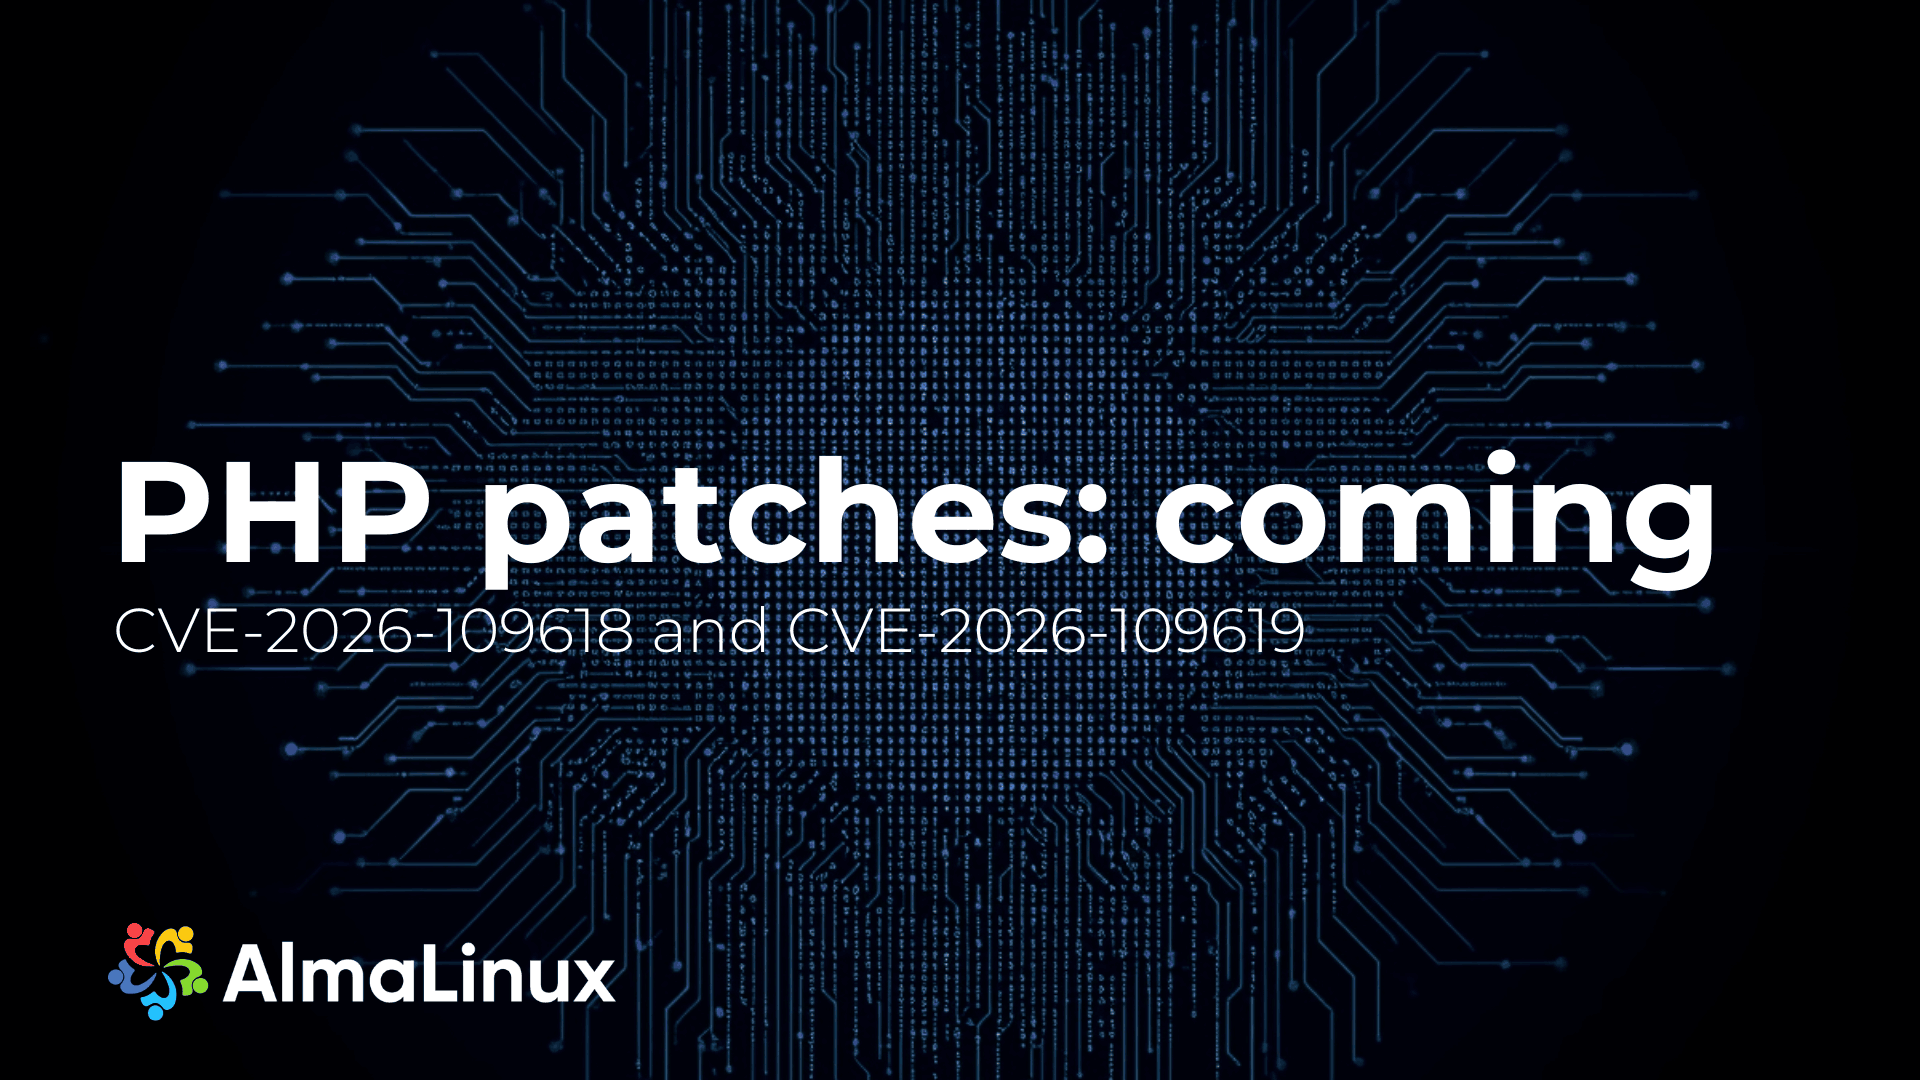
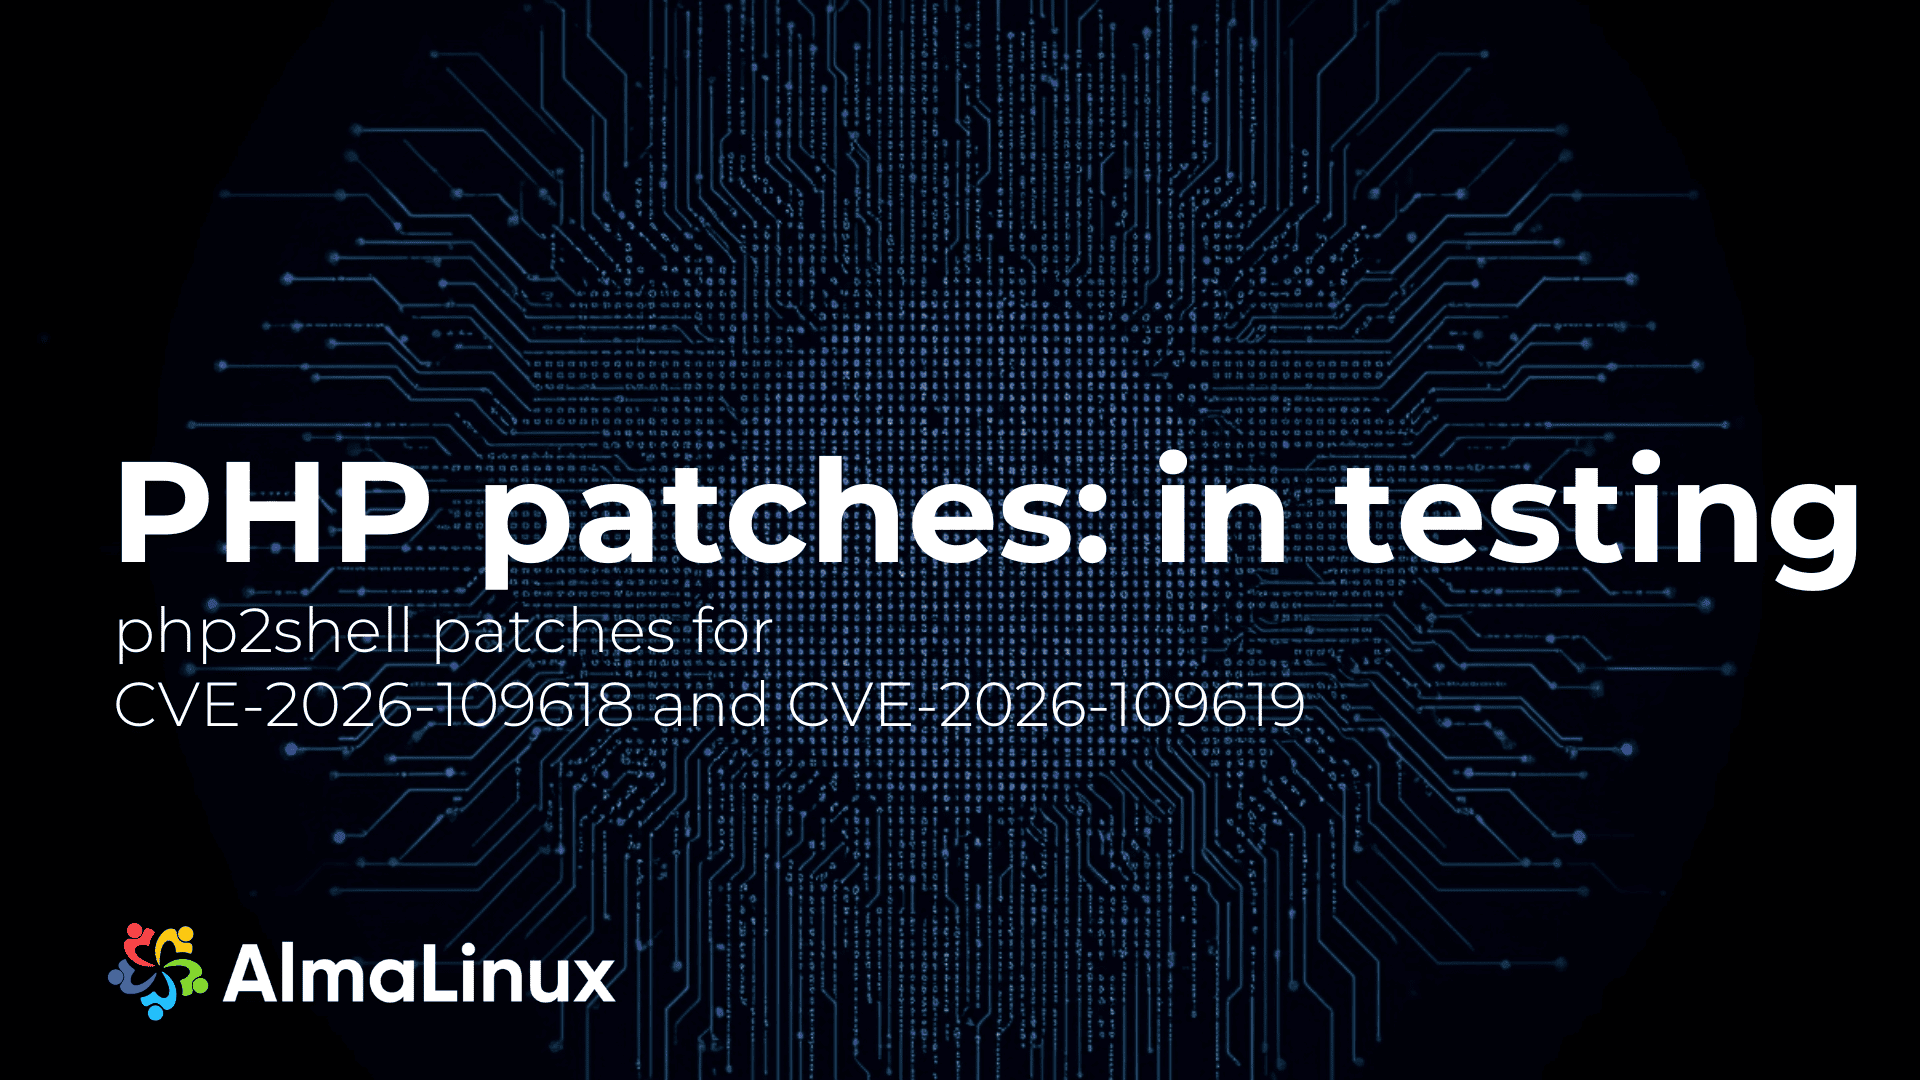
Update php2shell post: patched PHP packages available in testing
Adds a call to action at the top, package versions for every PHP
stream (including retired streams and Red Hat's php:7.4 update on
AlmaLinux 8), and testing instructions. Swaps in the "in testing"
header image, compressed to stay under the 500 KB blog-image limit.
Drafted with AI assistance.

Changed region(s): [[0.0625, 0.55, 0.6875, 0.6722], [0.5938, 0.3972, 0.9688, 0.55], [0.0625, 0.8861, 0.0938, 0.9167]]

diff --git a/content/blog/2026-10-21-php2shell-cve-2026-109618-cve-2026-109619.md b/content/blog/2026-10-21-php2shell-cve-2026-109618-cve-2026-109619.md
@@ -1,5 +1,5 @@
 ---
-title: "php2shell (CVE-2026-109618, CVE-2026-109619): Patches in progress"
+title: "php2shell (CVE-2026-109618, CVE-2026-109619): Patched PHP packages available in testing"
 type: blog
 author:
   name: "Jonathan Wright"
@@ -9,13 +9,29 @@ date: "2026-10-21"
 images:
   - /blog-images/2026/2026-10-21-php2shell.png
 post:
-  title: "php2shell is a pair of critical PHP flaws that can let an unauthenticated attacker run code on a web server with nothing more than crafted HTTP requests. We are backporting the fixes now and expect patched PHP packages for AlmaLinux 8, 9, and 10 in the testing repository later today."
+  title: "php2shell is a pair of critical PHP flaws that can let an unauthenticated attacker run code on a web server with nothing more than crafted HTTP requests. Patched PHP packages for AlmaLinux 8, 9, and 10 are in the testing repository now. Help us verify them before they go to production."
   image: /blog-images/2026/2026-10-21-php2shell.png
+---
+
+## Update: Patched PHP packages are now in testing
+
+**2026-10-21 17:50 UTC:** Patched packages for every PHP stream AlmaLinux ships are now in the **testing** repository. Please install them and help us verify them before we release them to production:
+
+```bash
+sudo dnf install -y almalinux-release-testing
+sudo dnf upgrade 'php*' --enablerepo=almalinux-testing
+sudo systemctl restart php-fpm
+```
+
+If you use mod_php on AlmaLinux 8, restart Apache with `sudo systemctl restart httpd` instead. If you are on the `php:7.4` stream on AlmaLinux 8, the fix is a rebuild of Red Hat's update and is already in production, so `sudo dnf upgrade 'php*'` is all you need.
+
+See [patched package versions](#patched-package-versions) for the exact builds, and [help us test](#help-us-test) for how to confirm the update and report problems.
+
 ---
 
 Two critical vulnerabilities in PHP, nicknamed **php2shell**, were [disclosed by PHP today](https://www.php.net/archive/2026.php#2026-10-21-5): [CVE-2026-109618](https://github.com/php/php-src/security/advisories/GHSA-w8hw-w9fx-j79w) and [CVE-2026-109619](https://github.com/php/php-src/security/advisories/GHSA-6wmf-4rv5-p3rp). Either one can let an unauthenticated attacker run code on a web server, as the account PHP runs under, by sending it crafted HTTP requests. PHP rates both **9.2 (Critical)** on CVSS v4.0. **AlmaLinux 8, 9, and 10 all ship affected PHP versions.**
 
-We are aware of these vulnerabilities, and our core team is actively backporting the fixes and building patched packages. We expect to release them to the testing repository later today, and we will update this post with package versions and testing instructions as soon as they are available. Until then, the [mitigations below](#mitigations-until-you-can-update) reduce your exposure.
+Patched packages for every PHP stream AlmaLinux ships are available in the testing repository today, and we would like your help verifying them before we release them to production. If you can't update right away, the [mitigations below](#mitigations-until-you-can-update) reduce your exposure.
 
 More information about the vulnerabilities:
 
@@ -26,7 +42,7 @@ More information about the vulnerabilities:
 
 ## Summary
 
-php2shell is the nickname the pair has picked up. PHP's advisory refers to them by CVE number. PHP shipped the fixes on 2026-10-21 in PHP 8.5.12, 8.4.27, 8.3.36, and 8.2.35. The two flaws are separate bugs, but PHP's advisories each tell readers to follow the other's advice too, and the patched AlmaLinux packages will fix both.
+php2shell is the nickname the pair has picked up. PHP's advisory refers to them by CVE number. PHP shipped the fixes on 2026-10-21 in PHP 8.5.12, 8.4.27, 8.3.36, and 8.2.35. The two flaws are separate bugs, but PHP's advisories each tell readers to follow the other's advice too, and the patched AlmaLinux packages fix both.
 
 ### CVE-2026-109618: out-of-memory corruption
 
@@ -65,20 +81,13 @@ Our packages only update PHP installed from AlmaLinux's own repositories. If you
 
 ## Patching ahead of our upstream
 
-Security is a top priority at AlmaLinux. Unauthenticated remote code execution in PHP is something that needs to be handled with urgency, and PHP is urging every user to update immediately. At the time of writing, Red Hat has not published fixed PHP packages. Our core team is backporting the upstream fixes first to every PHP stream that is still supported under the [RHEL Application Streams life cycle](https://access.redhat.com/support/policy/updates/rhel-app-streams-life-cycle):
+Security is a top priority at AlmaLinux. Unauthenticated remote code execution in PHP is something that needs to be handled with urgency, and PHP is urging every user to update immediately. At the time of writing, Red Hat has released a fix only for the `php:7.4` stream on RHEL 8. Our core team has backported the upstream fixes to every other PHP stream AlmaLinux ships, including streams that are past the end of their [RHEL Application Streams life cycle](https://access.redhat.com/support/policy/updates/rhel-app-streams-life-cycle). The decision to ship ahead of a CentOS Stream / RHEL update was made by our technical steering committee, [ALESCo](https://almalinux.org/blog/2024-05-21-introducing-alesco/).
 
-- **AlmaLinux 8:** the `php:7.4` and `php:8.2` streams
-- **AlmaLinux 9:** the default PHP 8.0, and the `php:8.2` and `php:8.3` streams
-- **AlmaLinux 10:** the default PHP 8.3, and PHP 8.4 (`php8.4` packages)
-- **AlmaLinux Kitten 10:** the fix will ride along in the next regular PHP update, so no separate build is being made
-
-We will ship these ahead of a CentOS Stream / RHEL update. That decision was made by our technical steering committee, [ALESCo](https://almalinux.org/blog/2024-05-21-introducing-alesco/).
-
-We expect the patched packages to be in the **testing repository later today**. After the community has helped verify them, we will release them to the production repositories. This post will be updated at each step.
+These packages are available **in the testing repository today**. After the community has helped verify them, we will release them to the production repositories. This post will be updated when that happens. The one exception is the `php:7.4` stream on AlmaLinux 8: that fix is a rebuild of Red Hat's update, and it goes directly to the production repositories.
 
 ### Retired streams
 
-`php:7.2`, `php:7.3`, and `php:8.0` on AlmaLinux 8, and `php:8.1` on AlmaLinux 9, have reached the end of their [RHEL life cycle](https://access.redhat.com/support/policy/updates/rhel-app-streams-life-cycle), so they are not part of this first round of patches. We may also backport the fixes to these streams later, and will update this post if we do. Don't wait on that. If you are on one of them, the safest path is to move to a supported stream.
+`php:7.2`, `php:7.3`, and `php:8.0` on AlmaLinux 8, and `php:8.1` on AlmaLinux 9, have reached the end of their [RHEL life cycle](https://access.redhat.com/support/policy/updates/rhel-app-streams-life-cycle). Given the severity of these flaws, we have patched them too, but future fixes for retired streams are not guaranteed. If you are on one of them, plan to move to a supported stream.
 
 `php:7.2` is still the default stream on AlmaLinux 8, so if you installed PHP there without choosing a stream, that is what you have. Check which stream is enabled (marked `[e]`) with:
 
@@ -93,6 +102,54 @@ sudo dnf module reset php
 sudo dnf module enable php:8.2
 sudo dnf distro-sync 'php*'
 ```
+
+## Patched package versions
+
+Install the version listed for your release and stream, or higher.
+
+**AlmaLinux 8**
+
+- `php:7.2` stream: `php-7.2.24-1.module_el8.10.0+4315+7b734bf3.alma.1`
+- `php:7.3` stream: `php-7.3.20-1.module_el8.10.0+4316+90ea5fe5.alma.1`
+- `php:7.4` stream: `php-7.4.33-8.module_el8.10.0+4321+cf5fd4bb` (Red Hat's update, released directly to production)
+- `php:8.0` stream: `php-8.0.30-1.module_el8.10.0+4319+26f10322.alma.1`
+- `php:8.2` stream: `php-8.2.33-1.module_el8.10.0+4320+c30d6dbb.alma.1`
+
+**AlmaLinux 9**
+
+- Default (PHP 8.0): `php-8.0.30-8.el9_8.alma.1`
+- `php:8.1` stream: `php-8.1.32-1.module_el9.8.0+326+528679fc.alma.1`
+- `php:8.2` stream: `php-8.2.33-1.module_el9.8.0+327+37dfd4b4.alma.1`
+- `php:8.3` stream: `php-8.3.33-1.module_el9.8.0+328+1fdeb728.alma.1`
+
+**AlmaLinux 10**
+
+- Default (PHP 8.3): `php-8.3.33-1.el10_2.alma.1`
+- PHP 8.4 (`php8.4` packages): `php8.4-8.4.24-1.el10_2.alma.1`
+
+**AlmaLinux Kitten 10**
+
+- The fix will ride along in the next regular PHP update, so no separate build is being made.
+
+## Help us test
+
+```bash
+sudo dnf install -y almalinux-release-testing
+sudo dnf upgrade 'php*' --enablerepo=almalinux-testing
+sudo systemctl restart php-fpm
+```
+
+If you use mod_php on AlmaLinux 8, restart Apache instead with `sudo systemctl restart httpd`. If you are on the `php:7.4` stream on AlmaLinux 8, you don't need the testing repository: `sudo dnf upgrade 'php*'` picks up the fix from production.
+
+Confirm with `rpm -q php-common` (or `rpm -q php8.4-common` for PHP 8.4 on AlmaLinux 10) against the versions above. Don't rely on `php -v`: our fixes are backported, so the upstream PHP version number doesn't change.
+
+If you do not want the testing repo enabled afterwards (and on a production box you almost certainly do not), disable it once you have updated:
+
+```bash
+sudo dnf config-manager --disable almalinux-testing
+```
+
+If you run into anything, please let us know in [AlmaLinux chat](https://chat.almalinux.org) or on [bugs.almalinux.org](https://bugs.almalinux.org).
 
 ## Mitigations until you can update
 
@@ -120,20 +177,22 @@ This blocks the confirmed session paths, but not other variants. Beyond that:
 
 **If you run mod_php on AlmaLinux 8**, PHP considers it the highest-risk setup. Switching back to the default event MPM with PHP-FPM removes the paths PHP confirmed against mod_php that don't depend on the application.
 
-Install the patched packages as soon as they are available.
+Install the patched packages as soon as you can.
 
 ## Thanks
 
 Thanks to the researchers who found and reported these flaws (credited in PHP's advisories), to **Arnaud Le Blanc**, **Ilija Tovilo**, **Jakub Zelenka**, and **Nora Dossche** for developing the fixes, and to the PHP security team for coordinating the release.
 
-Thanks to the AlmaLinux core team, who are building patched packages for every supported stream right now, and to ALESCo for moving quickly to approve shipping ahead of upstream. And thank you in advance to everyone in the community who will help us test them. That's the part that gets them safely into production.
+Thanks to the AlmaLinux core team for turning around patched builds for every PHP stream we ship on disclosure day, and to ALESCo for moving quickly to approve shipping ahead of upstream. And thank you in advance to everyone in the community who helps us test these packages. That's the part that gets them safely into production.
 
 ## Stay informed
 
-Remaining aware of these vulnerabilities and acting quickly can keep your systems and data safe. Follow the AlmaLinux Blog, join the [Mattermost Community Chat](https://chat.almalinux.org/), and subscribe to the [Announce](https://lists.almalinux.org/mailman3/lists/announce.lists.almalinux.org/) and [Security](https://lists.almalinux.org/mailman3/lists/security.lists.almalinux.org/) mailing lists to stay informed. We will update this post when the patched packages are available in the testing repository.
+Remaining aware of these vulnerabilities and acting quickly can keep your systems and data safe. Follow the AlmaLinux Blog, join the [Mattermost Community Chat](https://chat.almalinux.org/), and subscribe to the [Announce](https://lists.almalinux.org/mailman3/lists/announce.lists.almalinux.org/) and [Security](https://lists.almalinux.org/mailman3/lists/security.lists.almalinux.org/) mailing lists to stay informed. We will update this post when the patched packages move from testing to production.
 
 ## Changelog
 
-- **2026-10-21 14:36 UTC:** Initial post published. Patches in progress, with testing releases expected later today.
+- **2026-10-21 17:50 UTC:** Patched PHP packages available in `almalinux-testing` for every PHP stream on AlmaLinux 8, 9, and 10, including retired streams. The `php:7.4` fix on AlmaLinux 8, a rebuild of Red Hat's update, released directly to production. Added package versions and testing instructions, and updated the post title.
+
+- **2026-10-21 15:11 UTC:** Initial post published. Patches in progress, with testing releases expected later today.
 
 - **2026-10-21 12:59 UTC:** PHP published its [security advisory](https://www.php.net/archive/2026.php#2026-10-21-5) along with the fixed releases, PHP 8.5.12, 8.4.27, 8.3.36, and 8.2.35.
